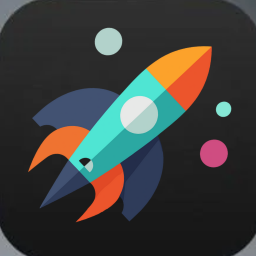
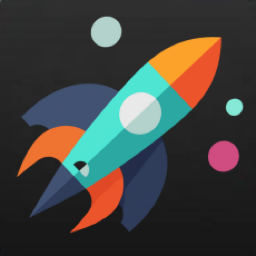
Add Proton Docs, Discover, US Bank and reorganize app sections
- Zoom in favicon slightly
- Add Proton Docs to Proton Apps section with favicon
- Split Proton Apps into two rows (Mail/Calendar/Pass/Drive + VPN/Docs/Lumo)
- Add Discover and US Bank to Financial Apps
- Split Financial Apps into two rows (4 banks + 3 credit/other)
- Add CSS spacing between consecutive grid rows

diff --git a/app/page.tsx b/app/page.tsx
@@ -91,8 +91,11 @@ const protonApps = [
       { label: 'Visit', url: 'https://drive.proton.me', main: true },
     ],
   },
+];
+
+const protonAppsSecondary = [
   {
-    id: 5,
+    id: 1,
     title: 'Proton VPN',
     description: 'Secure VPN service for privacy and security.',
     favicon: '/proton-vpn.ico',
@@ -102,7 +105,17 @@ const protonApps = [
     ],
   },
   {
-    id: 6,
+    id: 2,
+    title: 'Proton Docs',
+    description: 'Secure collaborative document editing.',
+    favicon: '/proton-docs.ico',
+    appUrl: 'proton-docs://',
+    links: [
+      { label: 'Visit', url: 'https://docs.proton.me/u/0/recents', main: true },
+    ],
+  },
+  {
+    id: 3,
     title: 'Proton Lumo',
     description: 'AI-powered writing assistant.',
     favicon: '/proton-lumo.ico',
@@ -230,11 +243,11 @@ const streamingServices = [
 const financialApps = [
   {
     id: 1,
-    title: 'SoFi',
-    description: 'Online personal finance and investing platform.',
-    favicon: 'https://www.sofi.com/favicon.ico',
+    title: 'America First',
+    description: 'Credit union banking services.',
+    favicon: '/afcu.jpg',
     links: [
-      { label: 'Visit', url: 'https://www.sofi.com', main: true },
+      { label: 'Visit', url: 'https://www.americafirst.com', main: true },
     ],
   },
   {
@@ -257,20 +270,41 @@ const financialApps = [
   },
   {
     id: 4,
-    title: 'America First',
-    description: 'Credit union banking services.',
-    favicon: '/afcu.jpg',
+    title: 'SoFi',
+    description: 'Online personal finance and investing platform.',
+    favicon: 'https://www.sofi.com/favicon.ico',
     links: [
-      { label: 'Visit', url: 'https://www.americafirst.com', main: true },
+      { label: 'Visit', url: 'https://www.sofi.com', main: true },
+    ],
+  },
+];
+
+const financialAppsSecondary = [
+  {
+    id: 1,
+    title: 'Discover',
+    description: 'Credit cards and banking services.',
+    favicon: 'https://www.discover.com/favicon.ico',
+    links: [
+      { label: 'Visit', url: 'https://www.discover.com', main: true },
     ],
   },
   {
-    id: 5,
+    id: 2,
     title: 'Experian',
     description: 'Credit monitoring and identity protection.',
     favicon: 'https://www.experian.com/favicon.ico',
     links: [
       { label: 'Visit', url: 'https://www.experian.com', main: true },
+    ],
+  },
+  {
+    id: 3,
+    title: 'US Bank',
+    description: 'Banking and financial services.',
+    favicon: 'https://www.usbank.com/favicon.ico',
+    links: [
+      { label: 'Visit', url: 'https://www.usbank.com', main: true },
     ],
   },
 ];
@@ -408,6 +442,7 @@ export default function Home() {
             <span className={`${styles.toggleIcon} ${collapsedSections.has('protonApps') ? styles.collapsed : ''}`}></span>
           </h2>
           {!collapsedSections.has('protonApps') && (
+          <>
           <div className={styles.grid}>
             {protonApps.map((app) => {
               const mainLink = app.links.find((link) => link.main);
@@ -454,6 +489,51 @@ export default function Home() {
               );
             })}
           </div>
+          <div className={styles.grid}>
+            {protonAppsSecondary.map((app) => {
+              const mainLink = app.links.find((link) => link.main);
+              const handleAppClick = () => {
+                if (!mainLink) return;
+                if (app.appUrl) {
+                  window.location.href = app.appUrl;
+                  setTimeout(() => {
+                    window.open(mainLink.url, '_blank');
+                  }, 1000);
+                } else {
+                  window.open(mainLink.url, '_blank');
+                }
+              };
+              return (
+                <div
+                  key={app.id}
+                  className={styles.projectCard}
+                  onClick={() => handleAppClick()}
+                >
+                  <div className={styles.titleWrapper}>
+                    <img src={app.favicon} alt={app.title} className={styles.protonFavicon} />
+                    <h2 className={styles.projectTitle}>{app.title}</h2>
+                  </div>
+                  {app.links.filter((link) => !link.main).length > 0 && (
+                    <div className={styles.footer} onClick={(e) => e.stopPropagation()}>
+                      {app.links.filter((link) => !link.main).map((link, idx) => (
+                        <a
+                          key={idx}
+                          href={link.url}
+                          target="_blank"
+                          rel="noopener noreferrer"
+                          className={styles.link}
+                          onClick={(e) => e.stopPropagation()}
+                        >
+                          {link.label} →
+                        </a>
+                      ))}
+                    </div>
+                  )}
+                </div>
+              );
+            })}
+          </div>
+          </>
           )}
 
           <h2 className={`${styles.appsHeading} ${styles.protonAppsHeading}`} onClick={() => toggleSection('toolsApps')}>
@@ -505,6 +585,7 @@ export default function Home() {
             <span className={`${styles.toggleIcon} ${collapsedSections.has('financialApps') ? styles.collapsed : ''}`}></span>
           </h2>
           {!collapsedSections.has('financialApps') && (
+          <>
           <div className={styles.grid}>
             {financialApps.map((app) => {
               const mainLink = app.links.find((link) => link.main);
@@ -518,7 +599,7 @@ export default function Home() {
                     <img
                       src={app.favicon}
                       alt={app.title}
-                      className={app.title === 'Chime' ? styles.chimeFavicon : ['SoFi', 'America First', 'Experian'].includes(app.title) ? `${styles.protonFavicon} ${styles.roundedIcon}` : styles.protonFavicon}
+                      className={app.title === 'Chime' ? styles.chimeFavicon : ['SoFi', 'America First'].includes(app.title) ? `${styles.protonFavicon} ${styles.roundedIcon}` : styles.protonFavicon}
                     />
                     <h2 className={styles.projectTitle}>{app.title}</h2>
                   </div>
@@ -542,6 +623,44 @@ export default function Home() {
               );
             })}
           </div>
+          <div className={styles.grid}>
+            {financialAppsSecondary.map((app) => {
+              const mainLink = app.links.find((link) => link.main);
+              return (
+                <div
+                  key={app.id}
+                  className={styles.projectCard}
+                  onClick={() => mainLink && window.open(mainLink.url, '_blank')}
+                >
+                  <div className={styles.titleWrapper}>
+                    <img
+                      src={app.favicon}
+                      alt={app.title}
+                      className={['Discover', 'Experian', 'US Bank'].includes(app.title) ? `${styles.protonFavicon} ${styles.roundedIcon}` : styles.protonFavicon}
+                    />
+                    <h2 className={styles.projectTitle}>{app.title}</h2>
+                  </div>
+                  {app.links.filter((link) => !link.main).length > 0 && (
+                    <div className={styles.footer} onClick={(e) => e.stopPropagation()}>
+                      {app.links.filter((link) => !link.main).map((link, idx) => (
+                        <a
+                          key={idx}
+                          href={link.url}
+                          target="_blank"
+                          rel="noopener noreferrer"
+                          className={styles.link}
+                          onClick={(e) => e.stopPropagation()}
+                        >
+                          {link.label} →
+                        </a>
+                      ))}
+                    </div>
+                  )}
+                </div>
+              );
+            })}
+          </div>
+          </>
           )}
 
           <h2 className={`${styles.appsHeading} ${styles.protonAppsHeading}`} onClick={() => toggleSection('streamingServices')}>

diff --git a/app/page.module.css b/app/page.module.css
@@ -131,6 +131,10 @@
   margin-top: 0;
 }
 
+.grid + .grid {
+  margin-top: 24px;
+}
+
 .streamingGrid {
   grid-template-columns: repeat(auto-fit, minmax(240px, 1fr));
 }
